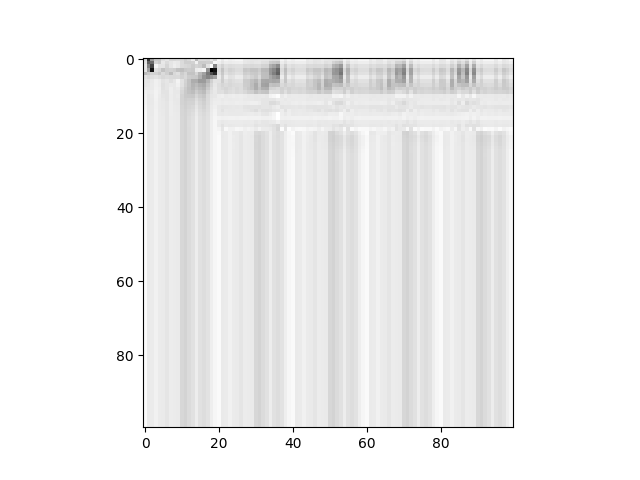
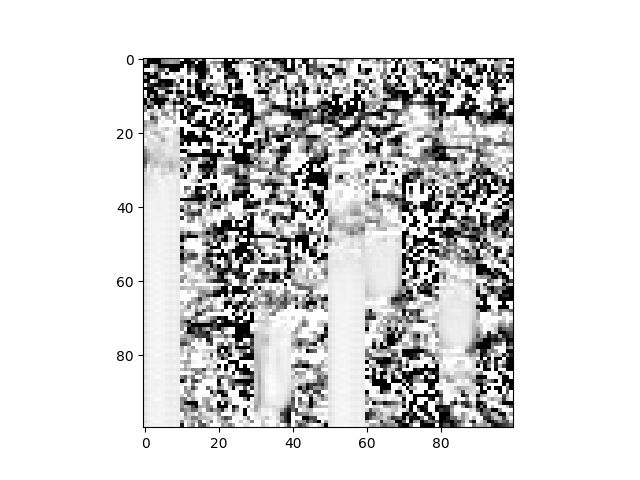
Smaller input size + 1000 training epochs

Changed region(s): [[0.2188, 0.125, 0.8125, 0.9062]]

diff --git a/main.py b/main.py
@@ -4,8 +4,8 @@ from model import MapModel
 from data import BatchManager
 import sys
 
-X_SHAPE = (4,20)
-Y_SHAPE = (1,20)
+X_SHAPE = (3,10)
+Y_SHAPE = (1,10)
 
 learning_rate = 0.001
 training_epochs = 50
